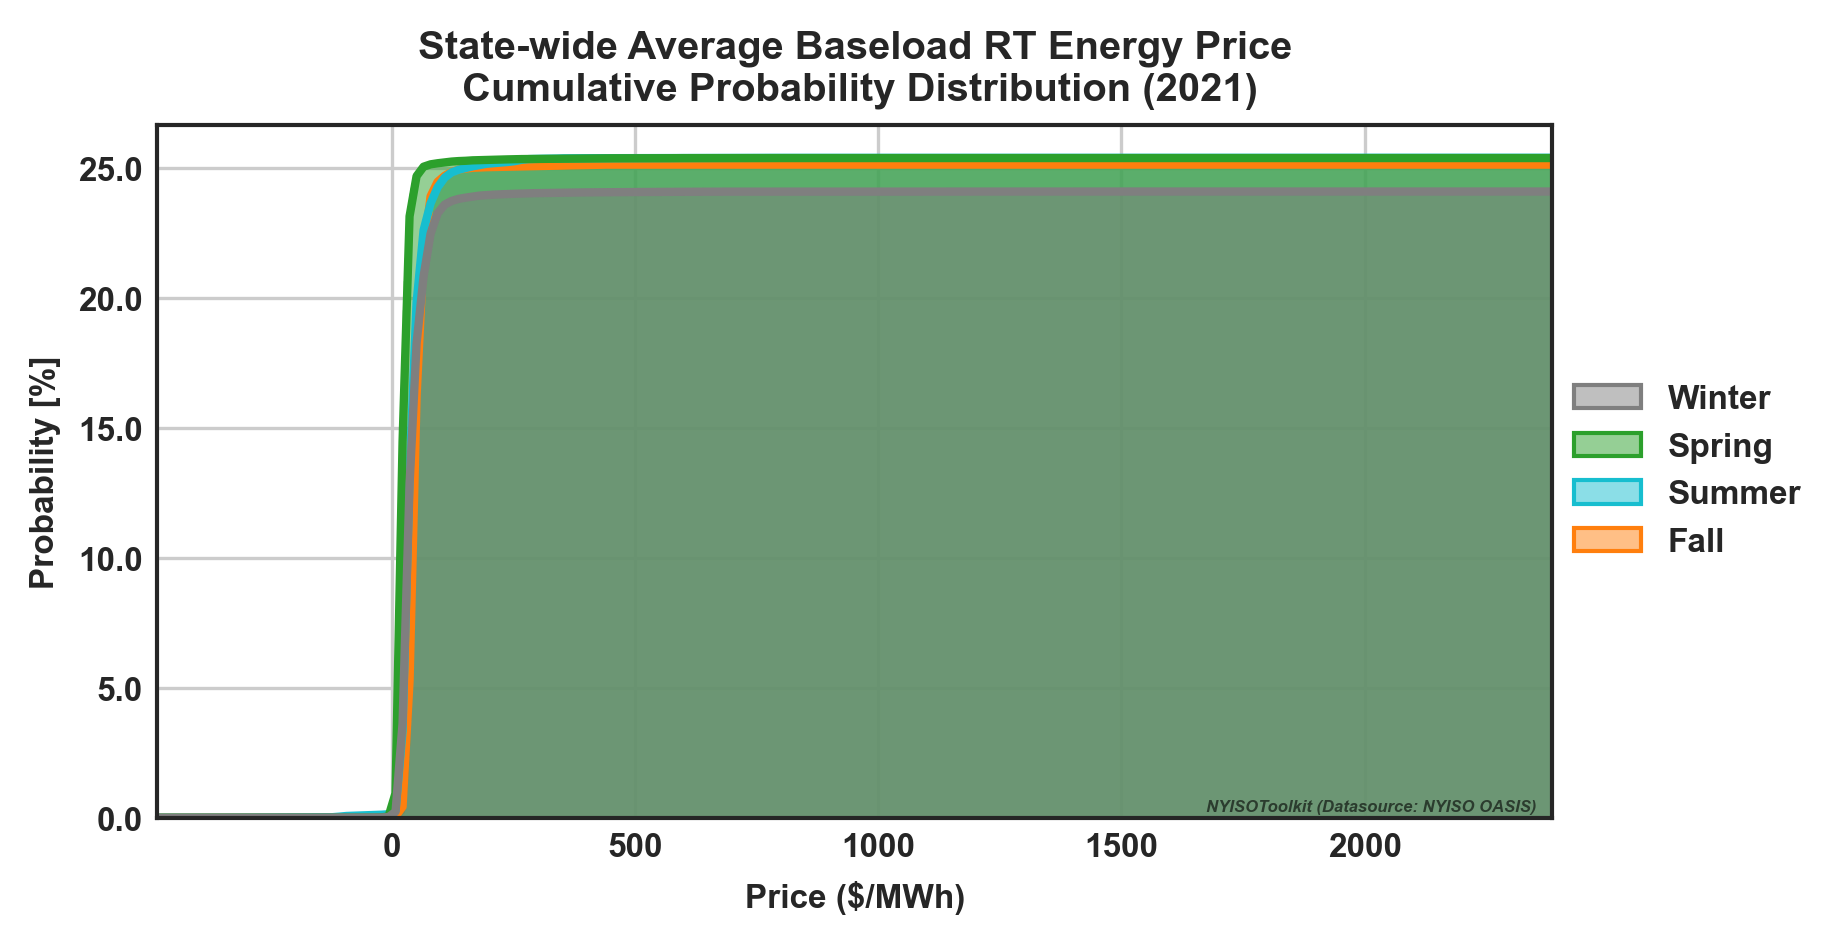
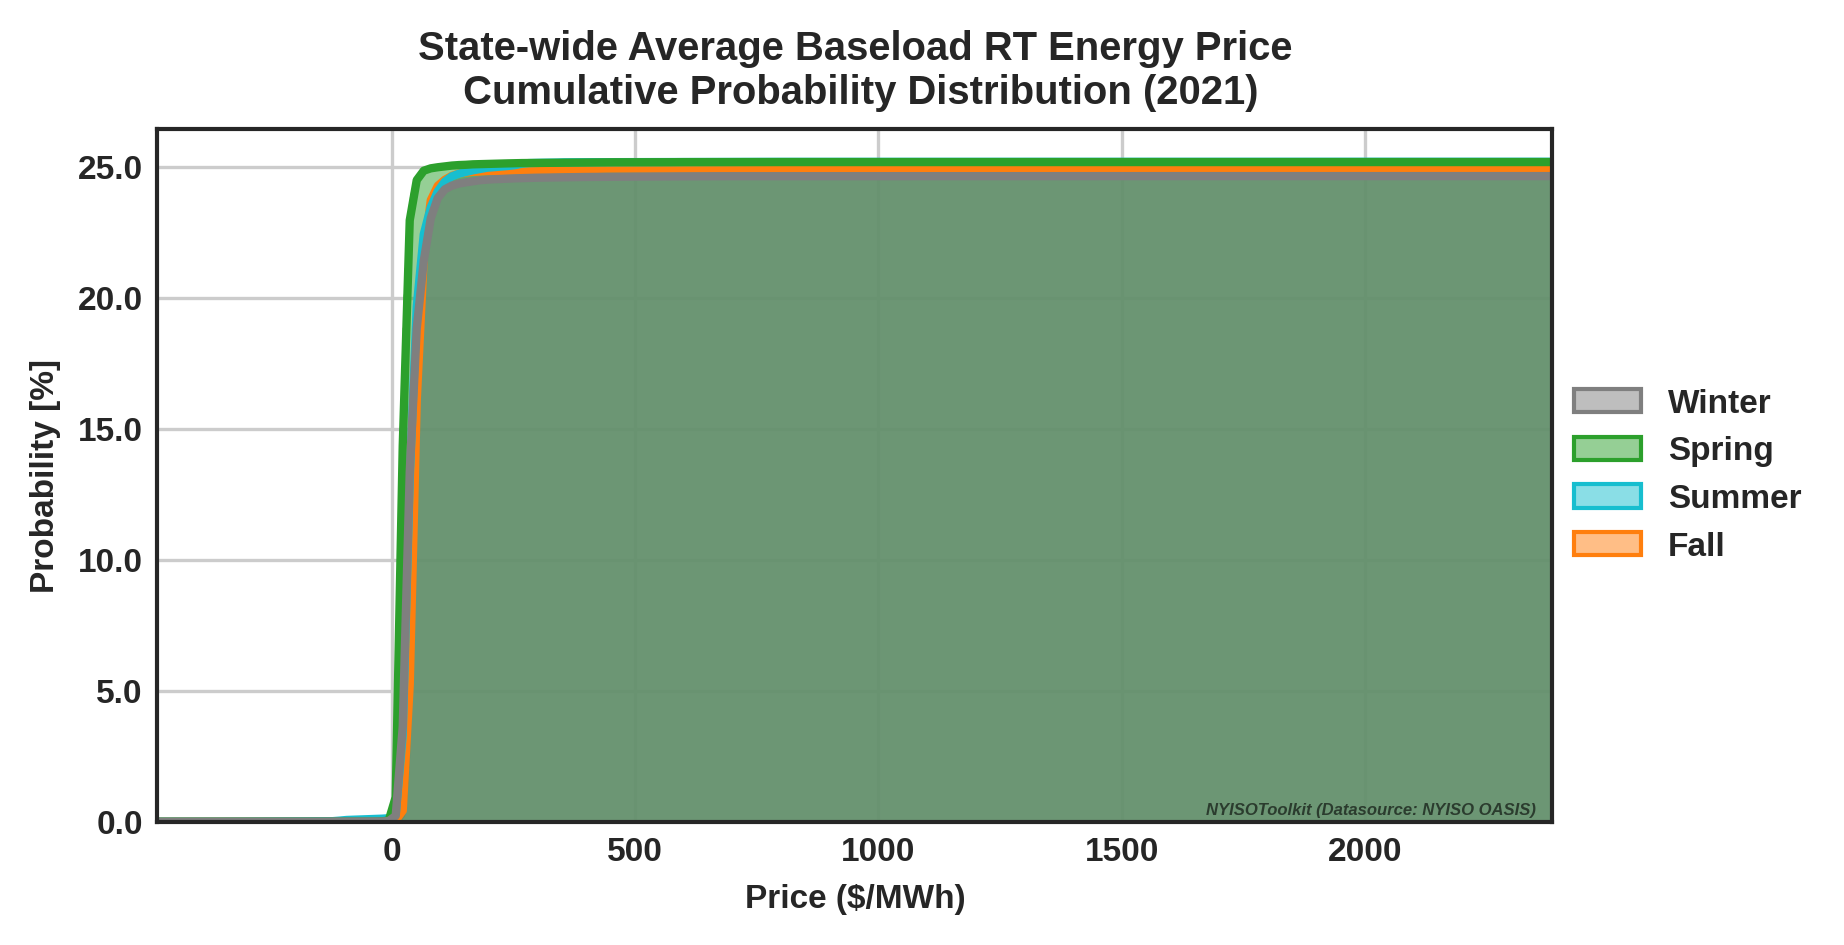
removed transparent background

diff --git a/nyisotoolkit/nyisovis/nyisovis.py b/nyisotoolkit/nyisovis/nyisovis.py
@@ -165,7 +165,7 @@ class NYISOVis:
         
         #Save
         file = pl.Path(self.out_dir, f'{self.year}_energy_generation_{f}.png')
-        fig.savefig(file, bbox_inches='tight', transparent=True)
+        fig.savefig(file, bbox_inches='tight', transparent=False)
 
     def tables_carbon_free_timeseries(self, f='D'):
         """Gathers datasets needed to produce fig_carbon_free_timeseries
@@ -258,7 +258,7 @@ class NYISOVis:
         
         #Save
         file = pl.Path(self.out_dir, f'{self.year}_carbon_free_timeseries_{f}.png')
-        fig.savefig(file, bbox_inches='tight', transparent=True)
+        fig.savefig(file, bbox_inches='tight', transparent=False)
         return tables
             
     def fig_carbon_free_year(self):
@@ -325,7 +325,7 @@ class NYISOVis:
         
         #Save
         file = pl.Path(self.out_dir,f'{self.year}_carbon_free_year.png')
-        fig.savefig(file, bbox_inches='tight', transparent=True)
+        fig.savefig(file, bbox_inches='tight', transparent=False)
         
     def fig_decarbonization_heatmap(self):
         """Creates a figure depicting an overview of the seasonal and daily carbon-free operation.
@@ -369,7 +369,7 @@ class NYISOVis:
                 
         #Save
         file = pl.Path(self.out_dir,f'{self.year}_decarbonization_heatmap.png')
-        fig.savefig(file, bbox_inches='tight', transparent=True)
+        fig.savefig(file, bbox_inches='tight', transparent=False)
 
     def fig_decarbonization_clock(self):
         """Creates a figure depicting 24 hour clock of the carbon-free operation of the average day.
@@ -418,7 +418,7 @@ class NYISOVis:
         
         # Save
         file = pl.Path(self.out_dir,f'{self.year}_decarbonization_clock.png')
-        fig.savefig(file, bbox_inches='tight', transparent=True)
+        fig.savefig(file, bbox_inches='tight', transparent=False)
     
     def fig_demand_pdf(self, cumulative=False):
         """Creates a figure of the year's demand probability density function."""
@@ -437,7 +437,7 @@ class NYISOVis:
             file = pl.Path(self.out_dir,f'{self.year}_demand_cumulative_pdf.png')
         else:
             file = pl.Path(self.out_dir,f'{self.year}_demand_pdf.png')
-        fig.savefig(file, bbox_inches='tight', transparent=True)
+        fig.savefig(file, bbox_inches='tight', transparent=False)
     
     def fig_demand_forecast_error(self, cumulative=False):
         load = NYISOData(dataset="load_h", year=self.year).df.tz_convert('US/Eastern')["NYCA"] #MW
@@ -458,7 +458,7 @@ class NYISOVis:
             file = pl.Path(self.out_dir,f'{self.year}_demand_forecast_error_cumulative_pdf.png')
         else:
             file = pl.Path(self.out_dir,f'{self.year}_demand_forecast_error_pdf.png')
-        fig.savefig(file, bbox_inches='tight', transparent=True)
+        fig.savefig(file, bbox_inches='tight', transparent=False)
 
     def fig_price_pdf(self, rt, cumulative = False):
         """Creates a figure of the state-wide average energy price probability distribution.
@@ -477,7 +477,7 @@ class NYISOVis:
             file = pl.Path(self.out_dir,f'{self.year}_{da_rt}_price_cumulative_pdf.png')
         else:
             file = pl.Path(self.out_dir,f'{self.year}_{da_rt}_price_pdf.png')
-        fig.savefig(file, bbox_inches='tight', transparent=True)
+        fig.savefig(file, bbox_inches='tight', transparent=False)
         
     def fig_price_difference_pdf(self, cumulative = False):
         rt_price = table_load_weighted_price(year=self.year, rt=True).resample("h").mean() #$/MWh
@@ -496,7 +496,7 @@ class NYISOVis:
             file = pl.Path(self.out_dir,f'{self.year}_price_difference_cumulative_pdf.png')
         else:
             file = pl.Path(self.out_dir,f'{self.year}_price_difference_pdf.png')
-        fig.savefig(file, bbox_inches='tight', transparent=True)
+        fig.savefig(file, bbox_inches='tight', transparent=False)
     
     def fig_carbon_free_years(self):
         """Todo: stacked area chart over time using nyisostat annual summary"""

diff --git a/nyisotoolkit/nyisodata/nyisodata.py b/nyisotoolkit/nyisodata/nyisodata.py
@@ -95,7 +95,7 @@ class NYISOData:
     def arg_validation(self):
         """Checks if dataset and year is available"""
         if self.dataset not in SUPPORTED_DATASETS:
-            raise Exception(f"{self.dataset} is not the name of a supported dataset! Supported datasets include:\# %%{SUPPORTED_DATASETS}")
+            raise Exception(f"{self.dataset} is not the name of a supported dataset! Supported datasets include:{SUPPORTED_DATASETS}")
         elif (int(self.year)<=2017) or (int(self.year)>utils.current_year()):
             raise Exception(f"{self.year} is not supported. Only 2018-{utils.current_year()} is supported.")
 

diff --git a/README.md b/README.md
@@ -141,4 +141,4 @@ nv = NYISOVis(year='2019') #figures saved in nyisotoolkit/nyisovis/visualization
 nv.fig_carbon_free_timeseries(f='D')  # daily (D) or monthy (M) frequency is recommended
 print(f"Figures saved by default to: {nv.out_dir} \nYou can change this by passing a pathlib object to the out_dir parameter in the NYISOVis object initialization.")
 ```
-![CLCPA](nyisotoolkit/nyisovis/visualizations/2021_carbon_free_timeseries_D.png)
+![CLCPA](nyisotoolkit/nyisovis/visualizations/2023_carbon_free_timeseries_D.png)
